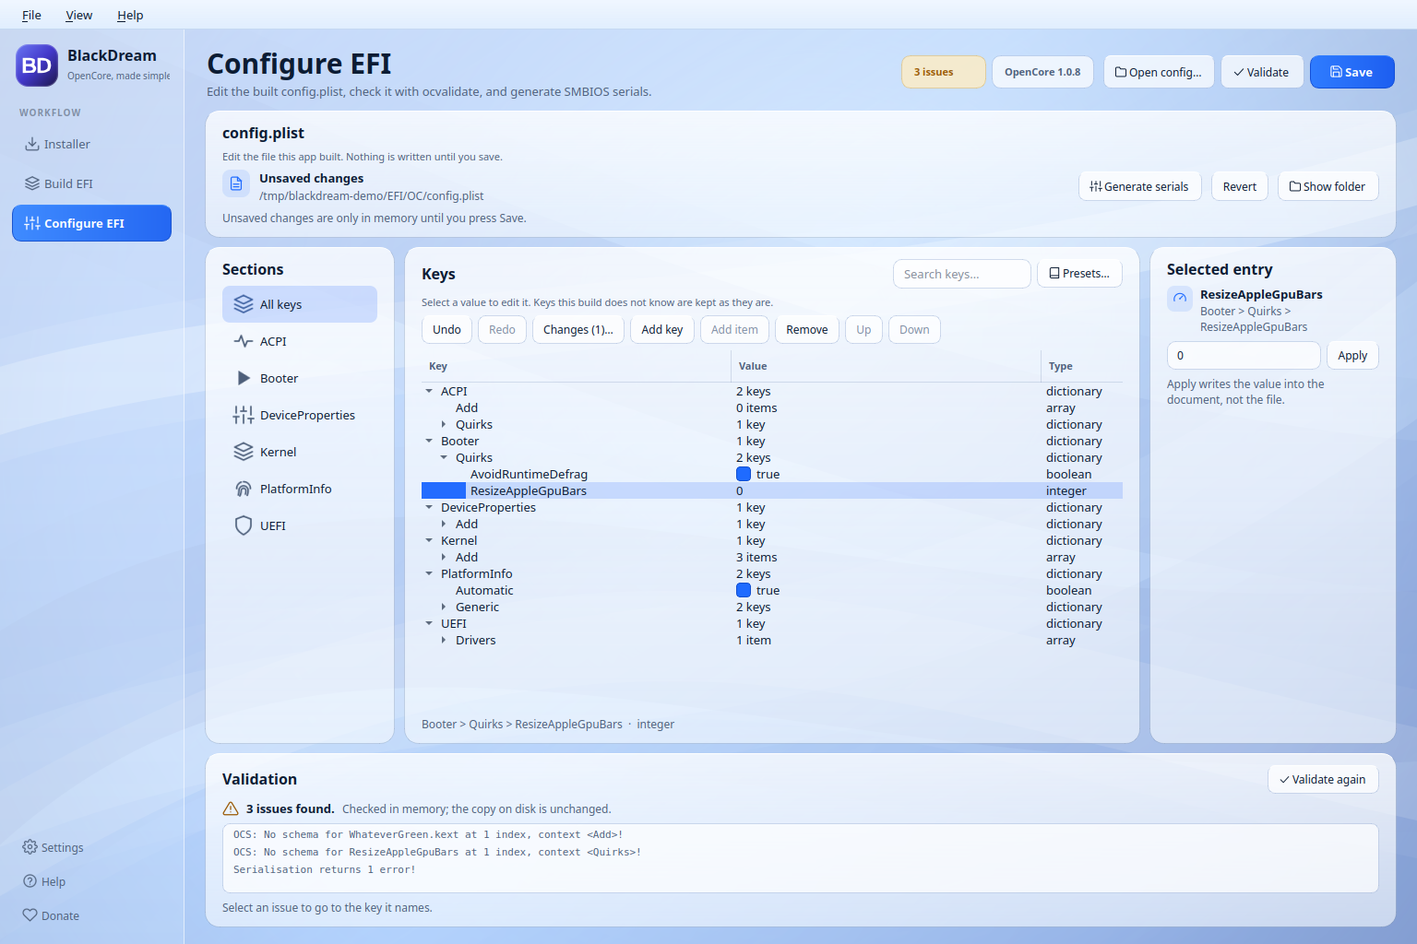
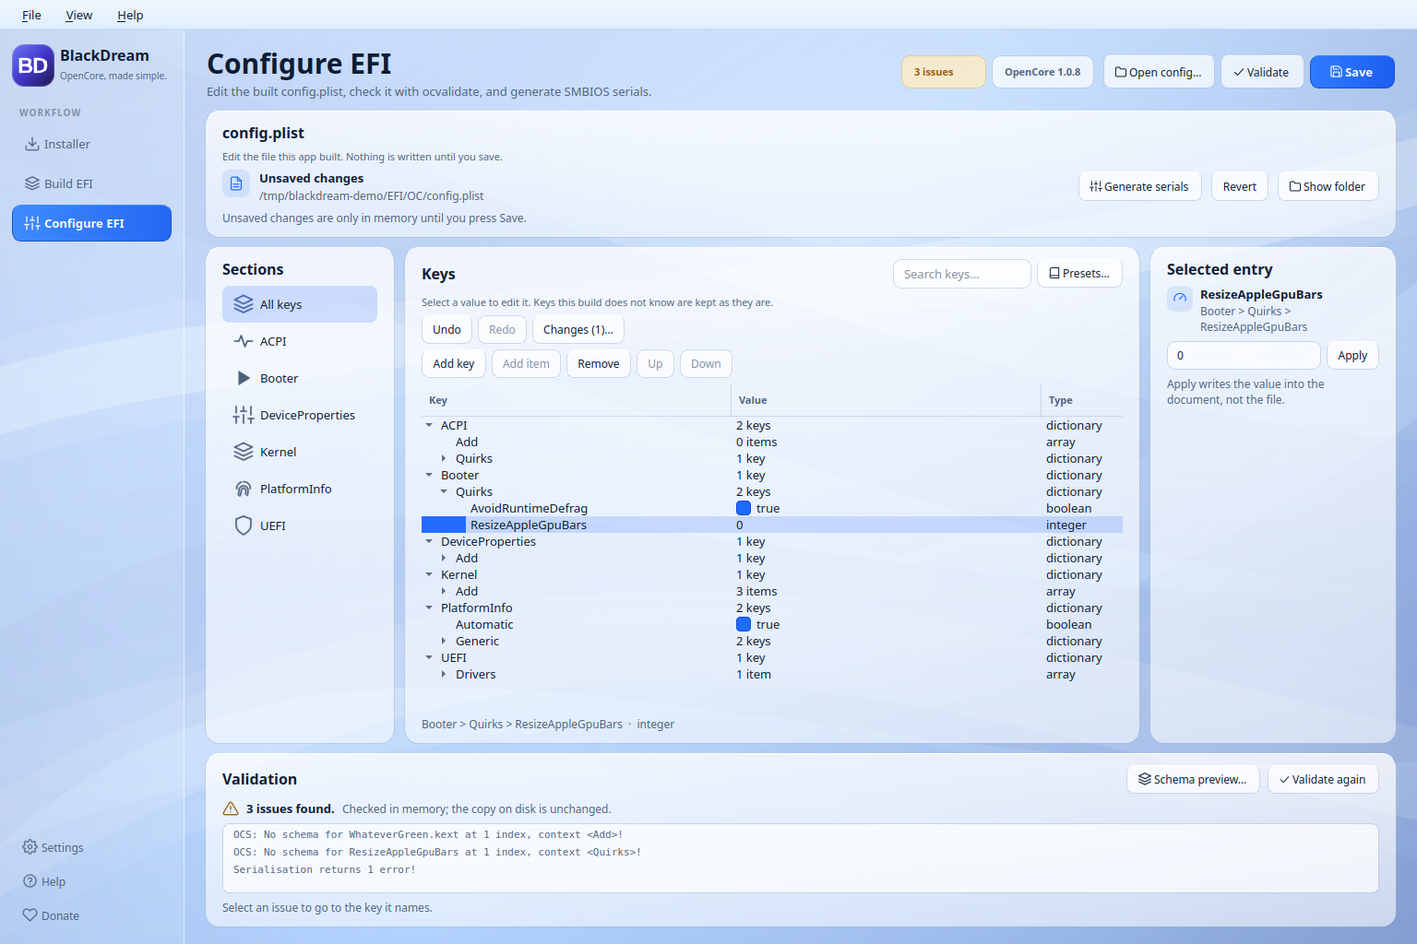
Fix four clipped labels found by Stage C's scaling and keyboard gate
The gate said "200 % scaling and keyboard focus have been looked at on a
desktop session", so it was looked at by measurement: every view rendered
offscreen at 1280x820 and at QT_SCALE_FACTOR=2, every visible button
compared against its own sizeHint() at minimumSize(), and the keyboard
driven with real Tab and arrow events through QTest.

Four labels were clipped, and none of them were visible in the published
frames because every frame is 1536 px wide. The Configure EFI Keys card
squeezed eight buttons into one row until "Changes…" drew as "hanges", so
the toolbar is now two rows. The brand tagline lost the last letter of
"OpenCore, made simple." to the 200 px rail, which is a spec promise, so
the row's own margins gave way. The Help diagnostics note was squeezed
beside two buttons into a narrow column and got its own line. Long stage
names lost their last glyph mid-letter; the row now elides and the
tooltip carries the whole line.

200 % found nothing new, which is itself the finding: Qt doubles device
pixels and leaves logical geometry alone. The stale promise was spec §14's
Devices-table rule about wrapping the support column, a mechanism the code
never had - measured, the support column shrinks 266 -> 110 px before the
name column loses anything, and a longer name elides with the full string
in the row tooltip. §14 now states what the code does.

Keyboard focus already reaches everything the spec names; two near-misses
[…]

diff --git a/tests/test_ui_native_shell.py b/tests/test_ui_native_shell.py
@@ -22,8 +22,9 @@ sys.path.insert(0, os.path.join(os.path.dirname(os.path.dirname(os.path.abspath(
 pytest.importorskip("PySide6")
 
 from PySide6.QtCore import QSize, Qt  # noqa: E402
+from PySide6.QtTest import QTest  # noqa: E402
 from PySide6.QtWidgets import (  # noqa: E402
-    QApplication, QBoxLayout, QWidget)
+    QApplication, QBoxLayout, QLabel, QPushButton, QWidget)
 
 from ocengine import runtime  # noqa: E402
 
@@ -202,6 +203,105 @@ def test_the_device_search_exists_only_where_the_table_does(make_window, qapp):
         window._show_view(name)
         qapp.processEvents()
         assert window.search.isHidden() == (name != "Compatibility"), name
+
+
+def test_no_button_is_narrower_than_its_own_label(make_window, qapp):
+    """The Configure toolbar held eight buttons in one row, and at the window's own
+    minimum width the row squeezed them until `Changes…` drew as `hanges`. Every frame
+    in ``docs/screenshots`` is 1536 px wide, so not one of them could show it — the
+    measurement has to happen at ``minimumSize()``, the smallest window a user can
+    drag this one to."""
+    window = make_window()
+    window.resize(window.minimumSize())
+    window.show()
+    for _ in range(4):
+        qapp.processEvents()
+
+    clipped = []
+    for name in _VIEWS:
+        window._show_view(name)
+        for _ in range(4):
+            qapp.processEvents()
+        for button in window.findChildren(QPushButton):
+            if not button.isVisible() or not button.text().strip():
+                continue
+            if button.width() < button.sizeHint().width():
+                clipped.append("{}: {} {!r} squeezed into {} px".format(
+                    name, button.objectName() or "button", button.text(),
+                    button.width()))
+    assert clipped == []
+
+    # The rail's 200 px is a spec promise, so the tagline beside the mark is what has
+    # to give -- and a clipped tagline is clipped in every one of the 20 screenshots.
+    hint = window.findChild(QLabel, "brandHint")
+    assert hint.sizeHint().width() <= hint.width(), \
+        "{!r} needs {} px in {} px".format(hint.text(), hint.sizeHint().width(),
+                                           hint.width())
+
+
+def test_the_keyboard_reaches_what_the_spec_promises(make_window, qapp):
+    """Spec 14 names three keyboard targets: the theme picker, the diagnostics
+    buttons and all six sidebar items.
+
+    The rail is one auto-exclusive button group, and Qt gives Tab to only the
+    group's first button and moves inside it with the arrow keys. So "reachable"
+    has to be walked the way a person drives it -- Tab to the rail, Down through
+    all six, Tab into the page -- or the test measures a chain nobody uses.
+    """
+    window = make_window()
+    window.resize(1280, 820)
+    window.show()
+    for _ in range(6):
+        qapp.processEvents()
+
+    def tab_chain(view):
+        window._show_view(view)
+        for _ in range(6):
+            qapp.processEvents()
+        if window.focusWidget() is not None:
+            window.focusWidget().clearFocus()
+        seen = []
+        while len(seen) < 60:
+            QTest.keyClick(window, Qt.Key_Tab)
+            for _ in range(3):
+                qapp.processEvents()
+            widget = qapp.focusWidget()
+            if widget is None or widget is window or widget in seen:
+                break
+            seen.append(widget)
+        return seen
+
+    assert window.theme_combo in tab_chain("Settings")
+    help_stops = tab_chain("Help")
+    for button in (window.first_boot_copy, window.diagnostics_bundle_button,
+                   window.copy_diagnostics_button):
+        assert button in help_stops, button.text()
+
+    window._show_view("Installer")
+    for _ in range(6):
+        qapp.processEvents()
+    if window.focusWidget() is not None:
+        window.focusWidget().clearFocus()
+    QTest.keyClick(window, Qt.Key_Tab)
+    for _ in range(3):
+        qapp.processEvents()
+    rail = window.nav_buttons + window.secondary_buttons
+    first = qapp.focusWidget()
+    assert first in rail, "Tab landed on {!r}, not the rail".format(first)
+    visited = [first]
+    for _ in range(len(rail) - 1):
+        # The key goes to the focused button, not the window: an exclusive button
+        # group handles the arrows in the button's own key handler, and a Down
+        # delivered to the window is a different event from one delivered to it.
+        QTest.keyClick(visited[-1], Qt.Key_Down)
+        for _ in range(3):
+            qapp.processEvents()
+        visited.append(qapp.focusWidget())
+    assert [button.text() for button in visited] == [button.text()
+                                                     for button in rail], \
+        "the rail hid {} from the keyboard".format(
+            [button.text() for button in rail if button not in visited])
+    assert window._view == "Donate", "the arrows moved the focus but not the page"
 
 
 def test_a_stage_event_updates_the_existing_rows(make_window):

diff --git a/src/blackdream/ui/main_window.py b/src/blackdream/ui/main_window.py
@@ -558,12 +558,15 @@ class MainWindow(QMainWindow):
         title = QWidget()
         title.setObjectName("brandBar")
         title_layout = QVBoxLayout(title)
-        title_layout.setContentsMargins(2, 2, 2, 0)
+        title_layout.setContentsMargins(0, 2, 0, 0)
         title_layout.setSpacing(0)
 
+        # The 200 px rail is a spec promise, so the tagline takes the room from the
+        # brand row's own margins: at the old 10 px gap "OpenCore, made simple." lost
+        # its last letter to the rail.
         brand = QHBoxLayout()
-        brand.setContentsMargins(2, 0, 0, 0)
-        brand.setSpacing(10)
+        brand.setContentsMargins(0, 0, 0, 0)
+        brand.setSpacing(6)
         mark = QLabel()
         mark.setPixmap(icons.logo(46))
         mark.setFixedSize(46, 46)
@@ -1418,8 +1421,12 @@ class MainWindow(QMainWindow):
             "Keys",
             "Select a value to edit it. Keys this build does not know are kept "
             "as they are.")
-        toolbar = QHBoxLayout()
+        toolbar = QVBoxLayout()
         toolbar.setSpacing(6)
+        history_row = QHBoxLayout()
+        history_row.setSpacing(6)
+        edit_row = QHBoxLayout()
+        edit_row.setSpacing(6)
         self.config_undo = QPushButton("Undo")
         self.config_undo.setObjectName("outline")
         self.config_undo.setMinimumHeight(30)
@@ -1456,11 +1463,17 @@ class MainWindow(QMainWindow):
         self.config_down.setObjectName("outline")
         self.config_down.setMinimumHeight(30)
         self.config_down.clicked.connect(lambda: self._move_config_item(1))
-        for button in (self.config_undo, self.config_redo, self.config_changes,
-                       self.config_add_key, self.config_add_item,
+        # Two rows, because eight buttons do not fit the card at the window's own
+        # minimum width: a single row squeezed them until "Changes…" drew as "hanges".
+        for button in (self.config_undo, self.config_redo, self.config_changes):
+            history_row.addWidget(button)
+        history_row.addStretch(1)
+        for button in (self.config_add_key, self.config_add_item,
                        self.config_remove, self.config_up, self.config_down):
-            toolbar.addWidget(button)
-        toolbar.addStretch(1)
+            edit_row.addWidget(button)
+        edit_row.addStretch(1)
+        toolbar.addLayout(history_row)
+        toolbar.addLayout(edit_row)
         self.config_search = QLineEdit()
         self.config_search.setObjectName("configSearch")
         self.config_search.setPlaceholderText("Search keys\u2026")
@@ -1866,9 +1879,12 @@ class MainWindow(QMainWindow):
         diagnostics_row.setSpacing(10)
         diagnostics_row.addWidget(self.diagnostics_bundle_button)
         diagnostics_row.addWidget(self.copy_diagnostics_button)
-        diagnostics_row.addWidget(self.diagnostics_note, 1)
+        diagnostics_row.addStretch(1)
         self.diagnostics_card.add(diagnostics)
         self.diagnostics_card.add(diagnostics_row)
+        # The note gets its own line: beside two buttons it had ~40 px of a narrow
+        # card left and wrapped "Nothing has been copied or saved." into a column.
+        self.diagnostics_card.add(self.diagnostics_note)
         self.diagnostics_card.finish()
         bottom.addWidget(self.troubleshooting_card, 3)
         bottom.addWidget(self.diagnostics_card, 2)
@@ -6391,6 +6407,7 @@ class _StageRow(QWidget):
         self.icon.setFixedSize(16, 16)
         self.name_label = QLabel(name)
         self.name_label.setObjectName("stageName")
+        self._name = name
         self.time = QLabel(elapsed)
         self.time.setObjectName("stageTime")
         self.time.setAlignment(Qt.AlignRight | Qt.AlignVCenter)
@@ -6404,6 +6421,16 @@ class _StageRow(QWidget):
         self._spinner_timer.setInterval(90)
         self._spinner_timer.timeout.connect(self._advance_spinner)
         self.set_state(state, elapsed)
+
+    def resizeEvent(self, event) -> None:
+        super().resizeEvent(event)
+        # Stage names are long and the progress card is half the page: cut to the
+        # card's width a name loses its last letter mid-glyph, so the row elides it
+        # and the item's tooltip carries the whole line.
+        shown = self.name_label.fontMetrics().elidedText(
+            self._name, Qt.ElideRight, max(self.name_label.width(), 0))
+        if shown != self.name_label.text():
+            self.name_label.setText(shown)
 
     def set_palette(self, palette: dict) -> None:
         self._palette = palette

diff --git a/tests/test_gui_slice.py b/tests/test_gui_slice.py
@@ -307,6 +307,31 @@ def test_a_device_name_is_rendered_as_text_not_markup(window, tmp_path):
     assert _rows(window)[0].text(0) == "<b>Bold</b> CPU"
 
 
+def test_the_release_range_gives_way_before_the_device_name(window, tmp_path, qapp):
+    """Spec 14's table rule, measured instead of hoped for.
+
+    The card is 640 px wide at every window width, so the four columns have to share
+    a fixed budget: this pins that the support column is the one that shrinks, that
+    the name column never drops below its floor, and that whatever the table cannot
+    show is still in the row tooltip -- a report can name a device anything at all,
+    including the markup the test above feeds it, so elision is unavoidable and the
+    tooltip is what makes it survivable.
+    """
+    _load(window, tmp_path, "table", fixtures.alder_lake_desktop())
+    tree = window.verdict_tree
+
+    for width in (window.minimumSize().width(), 1280, 1900):
+        window.resize(width, 820)
+        for _ in range(6):
+            qapp.processEvents()
+        assert tree.columnWidth(0) >= tree._DEVICE_MIN, \
+            "the name column was squeezed at {} px".format(width)
+        assert tree._SUPPORT_MIN <= tree.columnWidth(2) <= tree._SUPPORT_MAX
+        for item in _rows(window):
+            assert item.toolTip(0) == item.text(0)
+            assert item.toolTip(2) == item.text(2)
+
+
 def test_cancellation_stops_a_running_job_and_releases_the_buttons(window, qapp):
     observed = []
 

diff --git a/docs/RELEASE-READINESS.md b/docs/RELEASE-READINESS.md
@@ -18,7 +18,7 @@ Statuses used below:
 * **Run** — executed by hand on a real machine, bundle or artifact this cycle.
 * **Not proved** — nothing here demonstrates it, and what would.
 
-The suite is 852 tests (850 pass, 2 skip: one needs `pefile` to read a Windows version
+The suite is 855 tests (853 pass, 2 skip: one needs `pefile` to read a Windows version
 resource, one only runs where artifacts have been built). `docs/RELEASE-NOTES.md` states
 that number and a test pins it to `pytest --collect-only`, so a claim about coverage
 cannot drift from the coverage.
@@ -28,11 +28,11 @@ cannot drift from the coverage.
 | Stage A bullet | Status | Evidence |
 | --- | --- | --- |
 | Reproducible artifacts for each supported platform | Run | the `Build beta artifacts` workflow built the Linux, Windows and Intel-macOS artifacts from the final commit of this cycle, and every leg's own audit step passed |
-| Complete automated suite plus the UI microcopy allowlist test | Proved | 852 collected, 850 passed, 2 skipped; `tests/test_mockup_spec_allowlist.py` is 31 of them |
+| Complete automated suite plus the UI microcopy allowlist test | Proved | 855 collected, 853 passed, 2 skipped; `tests/test_mockup_spec_allowlist.py` is 31 of them |
 | The P0 checklist, including fault injection for installer writes and config saves | Mapped below | every gate in section 2; the injected faults are the second-swap failure, the cancelled write, the refused swap, the externally changed file and `test_a_value_plist_cannot_hold_fails_the_save_before_it_touches_the_disk` |
 | The installer uses Apple's trust chain; pinned runtime binaries verified before they run | Proved | `test_the_real_apple_chunklist_verifies`, `test_asset_urls_must_stay_on_apple_cdn`, `test_a_tampered_tool_is_refused_before_it_runs`, `test_unpinned_download_still_refused` |
 | Upgrade, install and uninstall behaviour; user cache and output folders not deleted | Run | the audited `.deb` was installed and then removed against a fake root inside a throwaway user namespace, the development host untouched: 472 paths appeared, 459 went away with the removal, and the thirteen that stayed are `dpkg`'s own database. Everything planted beside the package survived — another package's doc, an `index.theme` inside the shared `hicolor` tree, a plist, a settings file, an EFI output folder, an unrelated application under `/opt` — and `dpkg` named the reason: `directory '/usr/share/icons/hicolor' not empty so not removed`. The helper and its polkit action read back `root:root` `0755` and `0644`, and writable state lives in `$XDG_DATA_HOME/blackdream`, never inside the root-owned `/opt/blackdream`. **Still not proved:** a desktop session answering polkit's prompt for the installed helper. |
-| Screenshots for the built states compared against the reject list | Run | all 14 window frames were re-rendered from this build, the six dialogs at their own sizes, and `docs/UI-MOCKUP-SPEC.md` §17 is what the allowlist test refuses |
+| Screenshots for the built states compared against the reject list | Run | all 14 window frames and the diagnostics dialog were re-rendered from this build at their own sizes, the other five dialogs came back byte-identical, and `docs/UI-MOCKUP-SPEC.md` §17 is what the allowlist test refuses |
 
 ## 2. Section 4 — P0 gates
 
@@ -256,6 +256,63 @@ re-measured here: five digests verified, the bundle's floor still glibc 2.35, an
 (`739a9e7e…` and `3fa21902…`, where the published beta 3 held only the second under
 `licenses/`). That bundle then started on this machine's Wayland session and again on X11.
 
+**Stage C's third gate — "200 % scaling and keyboard focus have been looked at on a desktop
+session" — was looked at, and it turned up four visible defects.** The method had to be
+measurement, not a glance: every view was rendered offscreen at 1280x820 and again with
+`QT_SCALE_FACTOR=2` (the grab comes back 2560x1640), every visible button was compared against
+its own `sizeHint()` at `minimumSize()`, and the keyboard was driven with real `Tab` and arrow
+events through `QTest`.
+
+Three of the four were clipping, and none of them could be seen in the published frames because
+every frame is 1536 px wide. The Configure EFI `Keys` card held eight buttons in one row and at
+the window's own minimum width squeezed `Changes…` into `hanges`; it is now two rows, `Undo`, `Redo`,
+`Changes…` over `Add key`, `Add item`, `Remove`, `Up`, `Down`. The brand tagline lost its last
+letter — the 200 px rail is a spec promise, so the row's own margins and spacing gave way instead,
+and `OpenCore, made simple.` now reads whole in all fourteen window frames. The Help card's
+"Nothing has been copied or saved." was squeezed beside two buttons into a narrow column and got
+its own line. The fourth was the progress card's stage names, which lost their last glyph
+mid-letter; the row now elides to the card's width and the tooltip carries the whole line.
+`test_no_button_is_narrower_than_its_own_label` walks all eight views at `minimumSize()` and
+refuses any button narrower than its own label — it fails on the pre-fix layout with seven
+offenders, which is what makes it worth having.
+
+**200 % scaling found nothing new, and that is the finding.** Qt doubles the device pixels and
+leaves the logical geometry alone, so a card that fits at 1280 logical pixels fits at 2560
+device pixels, and one that clips does both. The one place where the spec promised a mechanism
+the code does not have was §14's Devices-table rule — "wrapping the `macOS support` column, never
+by truncating a device name mid-token". Measured: the card is 640 px wide at every window width,
+the table gives way from the right (the support column shrinks from 266 px to its 110 px floor
+before the name column loses anything, which keeps at least 165 px), and a name longer than that
+elides with the whole string in the row tooltip. Wrapping was not implemented: a report can name
+a device anything at all — `test_a_device_name_is_rendered_as_text_not_markup` feeds it
+`<b>Bold</b> CPU` — so no fixed-width column can promise against truncation, and the row height
+is pinned at 29 px by design. §14 now states the mechanism the code actually has, and
+`test_the_release_range_gives_way_before_the_device_name` pins the column floors at 1160, 1280
+and 1900 px.
+
+**Keyboard focus reaches what the spec names, and two things that looked like bugs are not.**
+`test_the_keyboard_reaches_what_the_spec_promises` drives the rail the way a person does: `Tab`
+lands on the group's first button, five `Down` presses visit all six and change the page each
+time, ending on `Donate`; the theme picker and all three Help diagnostics buttons are in the
+`Tab` chain. Measured chain lengths at 1280x820: Compatibility 22 stops, Build 12, Installer 7,
+Logs 6, Help 5, Settings 2 controls, Configure EFI 2 with no document open and 14 with one,
+Donate 1 control — and Donate is meant to have none, since its own card says "Donation links are
+not open yet. No payment button is shown until there is a page behind it." The two near-misses: only
+the rail's first button carries `Qt.TabFocus` (`0xB` against `0xA` for the other five), which is
+Qt's own auto-exclusive focus fix-up and not a defect; and the obvious-looking repair — putting
+the six buttons in an explicit `QButtonGroup` — was tried and measurably *breaks* the arrow walk
+rather than enabling it. Sending `Down` at the window instead of the focused button also appears
+to do nothing, which is how the first pass at this gate nearly produced a wrong bug report.
+
+**The frames were re-rendered from the fixed build, and two were stale in a second way.** All
+fourteen window frames now come from this tree. Five of the six dialogs came back byte-identical
+to the frames they replace, which is the check that they still say what they say; the sixth,
+`15-diagnostics-bundle.png`, printed `BlackDream 0.9.0-beta.2` in a bundle the current app
+reports as `0.9.0-beta.3`, so it was re-rendered too. `08-settings.png` turned out to have been
+rendered on 2026-10-23, before the version bump: it read `BlackDream 0.1.0` with the theme pinned
+to `Light` and the storage card pointing at a scratch cache directory. It now shows the current
+version, the `System` default and the paths a first run really uses.
+
 ## 8. What this cycle changed in the code
 
 Five P0 claims were promises rather than evidence, and each now has a test:
@@ -281,3 +338,11 @@ Five P0 claims were promises rather than evidence, and each now has a test:
   recognises a notice by its bytes, and
   `test_two_vendored_documents_never_land_on_one_path_in_the_bundle` reads the spec and
   refuses a list in which two documents would write the same path.
+* The third Stage-C gate found four clipped labels and one spec sentence describing a
+  mechanism the code never had. The Configure toolbar's eight buttons became two rows, the
+  brand tagline and the Help diagnostics note got the room they need, and a long stage name
+  elides with the whole line in its tooltip;
+  `test_no_button_is_narrower_than_its_own_label` and
+  `test_the_keyboard_reaches_what_the_spec_promises` pin the two rules a screenshot cannot.
+  §14's Devices-table sentence now states the column floors the table actually keeps, with
+  `test_the_release_range_gives_way_before_the_device_name` holding them at three widths.

diff --git a/docs/UI-MOCKUP-SPEC.md b/docs/UI-MOCKUP-SPEC.md
@@ -1096,8 +1096,13 @@ behind the code, and a mockup built from it cannot contain a sentence the app wo
   exceed 7:1 in each theme. Do not lighten them for aesthetics.
 - Never colour alone: status cells pair an icon with a word, stage rows pair an icon with a state
   name, field states pair an icon with a tooltip.
-- The Devices table must survive a 200 % UI scale by wrapping the `macOS support` column, never by
-  truncating a device name mid-token. The full name is always in the row tooltip.
+- The Devices table gives way from the right: the `macOS support` column shrinks (266 px down to
+  its 110 px floor) before the Device column loses anything, so a name keeps every pixel the card
+  can spare. A name longer than that column is elided - the table is 640 px wide at every window
+  width, and no fixed column can promise otherwise against a string a report supplied - and the
+  whole name and the whole release range are in the row tooltip. A 200 % UI scale changes nothing
+  here: Qt doubles the device pixels and leaves the logical geometry, so what fits at 100 % fits
+  at 200 %.
 - Engine text is untrusted content: device names come from a report written by another program, and
   remote filenames come from GitHub. Mockups should show long, awkward names
   (`Intel Cannon Lake-HDMI`, `Realtek RTL8821CE-CU4AA_921E PCIe Network Card`) rather than tidy ones.
@@ -1239,8 +1244,10 @@ result. Nothing on this page leaves the window, mounts a disk or writes the file
 - **`Keys` card** (stretch). Title `Keys`; hint `Select a value to edit it. Keys this build does
   not know are kept as they are.` The card header holds the 150–190 px `Search keys…` field
   with its clear button and, to its right, the 30 px outline `Presets…` button. Below it a
-  toolbar of 30 px outline buttons: `Undo`, `Redo`, `Changes…`, `Add key`, `Add item`,
-  `Remove`, `Up`, `Down`. `Undo` and `Redo` carry the edit they will reverse or repeat in their
+  toolbar of 30 px outline buttons in two rows — `Undo`, `Redo`, `Changes…` over
+  `Add key`, `Add item`, `Remove`, `Up`, `Down` — because one row of eight is wider than the
+  card at the window's minimum width and the labels were clipped there. `Undo` and `Redo`
+  carry the edit they will reverse or repeat in their
   tooltip and are disabled when the matching stack is empty. `Changes…` reads
   `Changes («n»)…` while the document differs from the file that was opened, and opens
   `Changes since the file was opened`: a read-only tree with headers `Change` · `Key` · `Before` ·

diff --git a/docs/RELEASE-NOTES.md b/docs/RELEASE-NOTES.md
@@ -110,7 +110,7 @@ name, and the privacy-safe diagnostic bundle.
 
 | Environment | Status |
 | --- | --- |
-| Linux x86_64, CPython 3.14, Qt 6.12, X11 and Wayland | the bundle is built and smoke-tested on glibc 2.35; 852 automated tests |
+| Linux x86_64, CPython 3.14, Qt 6.12, X11 and Wayland | the bundle is built and smoke-tested on glibc 2.35; 855 automated tests |
 | Windows 10/11 | the bundle is built and smoke-tested natively on a Windows runner; **no full workflow run on real hardware** |
 | macOS 14+ on Intel | the `.app` is built and smoke-tested natively on an Intel macOS runner; Apple Silicon runs the same Intel bundle under Rosetta 2; **no full workflow run on real hardware** |
 | CPython 3.11–3.13 | syntax-verified against the 3.11 grammar; **not executed** |
